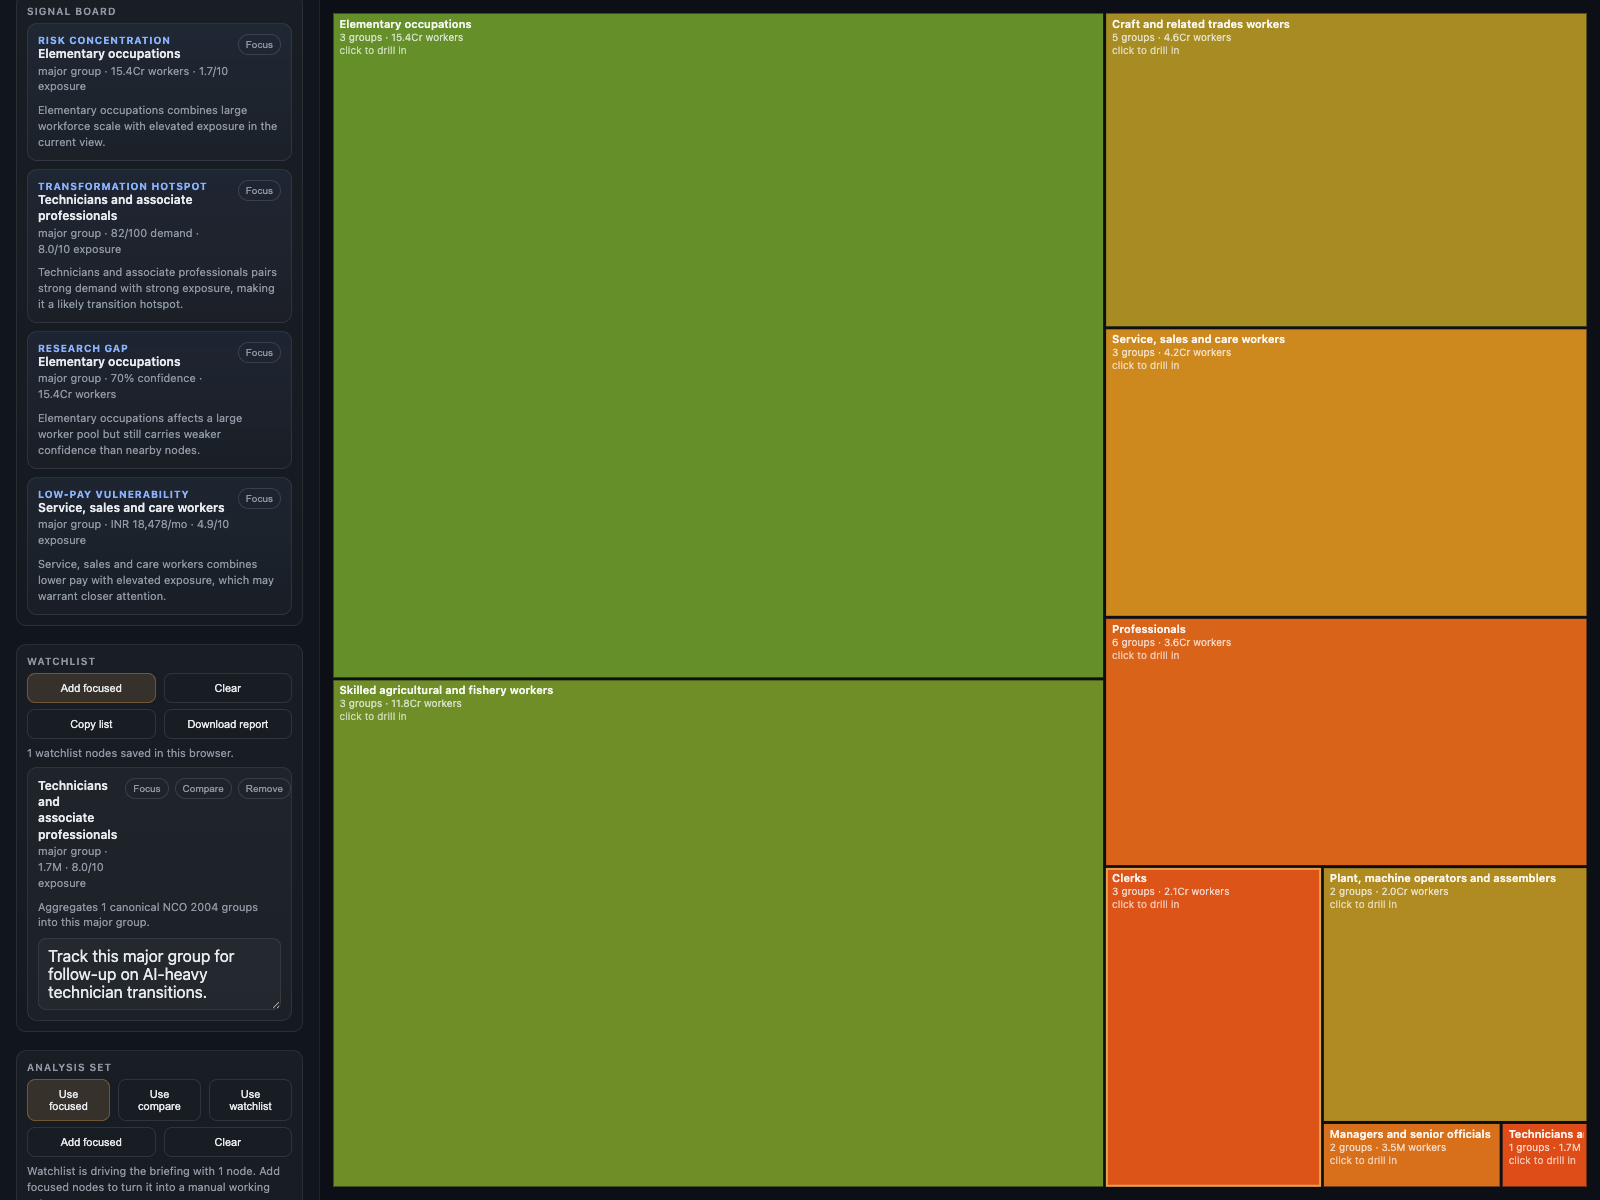
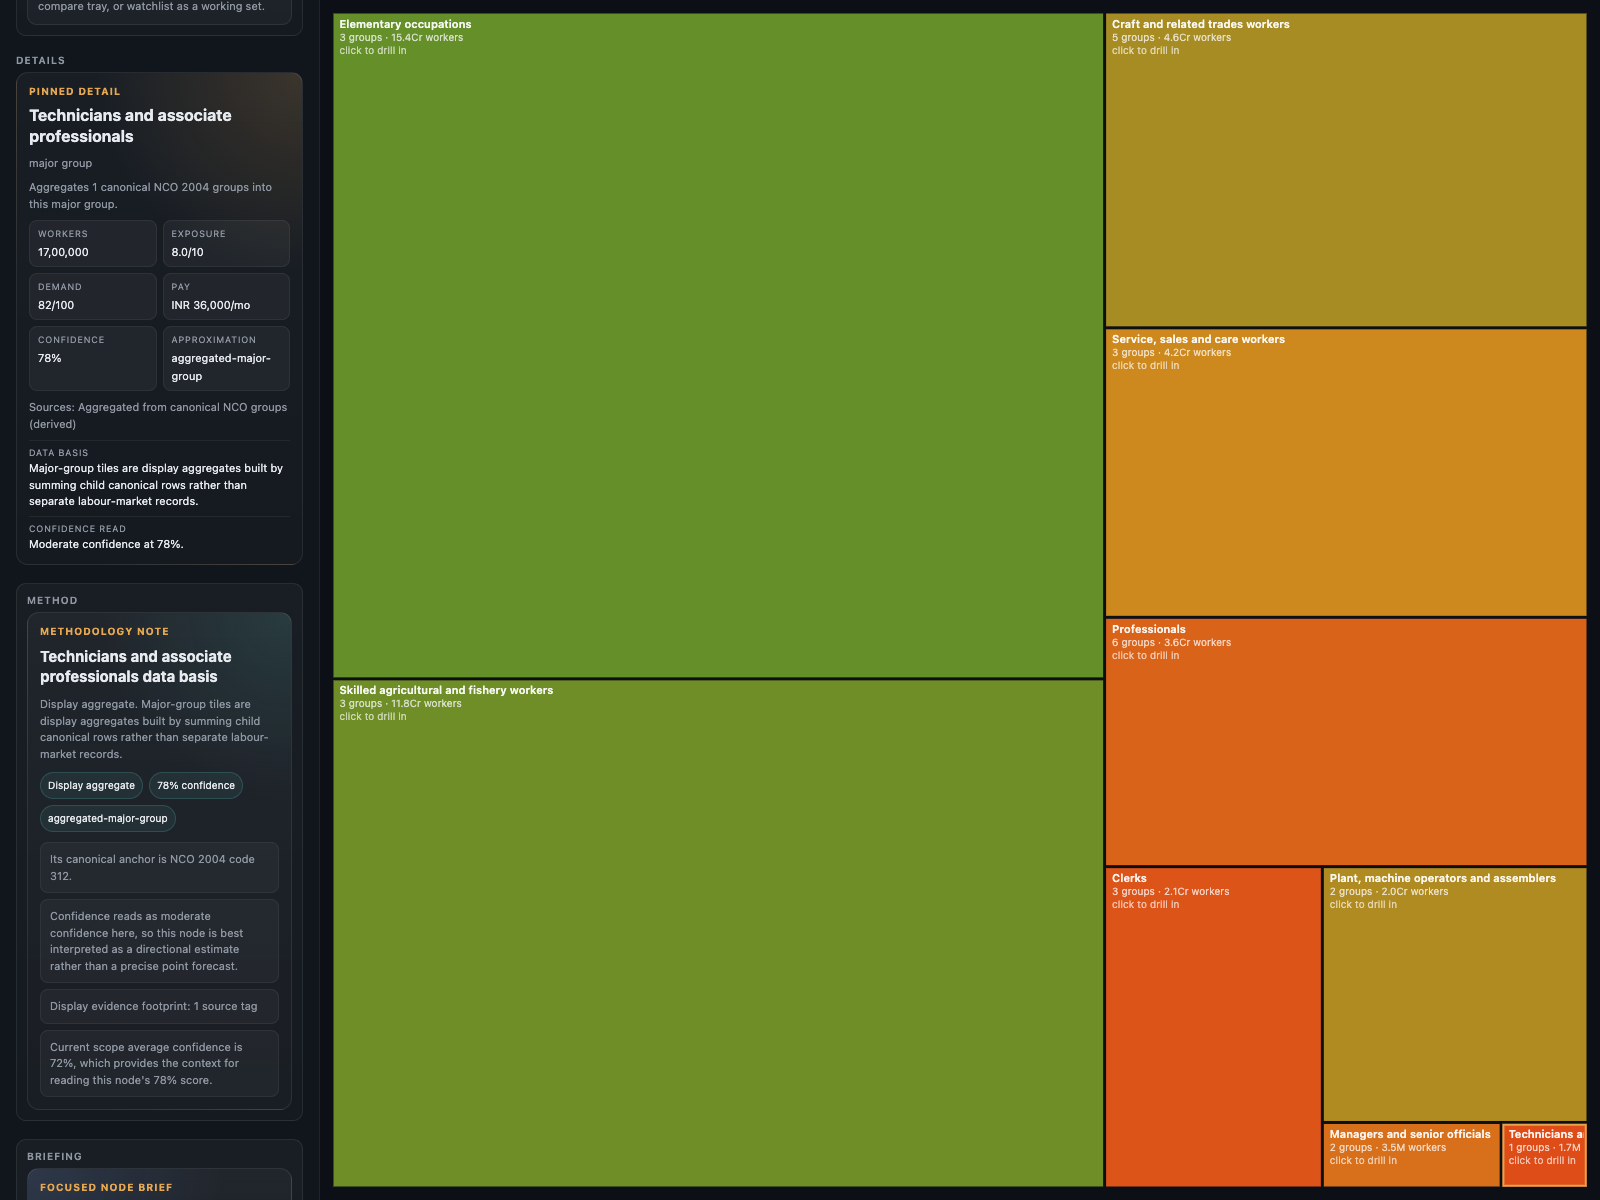
Add methodology guidance to the site

diff --git a/site/index.html b/site/index.html
@@ -471,6 +471,17 @@ a { color: #79a7ff; }
   font-size: 10px;
 }
 
+.methodology-card {
+  background:
+    radial-gradient(circle at top right, rgba(95,217,198,0.12), transparent 34%),
+    linear-gradient(180deg, rgba(255,255,255,0.035), rgba(255,255,255,0.015));
+}
+
+.methodology-chip {
+  background: rgba(95,217,198,0.08);
+  border-color: rgba(95,217,198,0.18);
+}
+
 .stat-big {
   font-size: 34px;
   line-height: 1;
@@ -1340,6 +1351,17 @@ canvas#canvas {
       <div class="detail-stats" id="detailStats"></div>
       <div class="detail-list" id="detailList"></div>
       <div class="detail-provenance" id="detailProvenance"></div>
+    </div>
+  </div>
+
+  <div class="section section-card">
+    <h3>Method</h3>
+    <div class="briefing-card methodology-card" id="methodologyCard">
+      <div class="detail-kicker" id="methodologyKicker">Reading guide</div>
+      <div class="briefing-title" id="methodologyTitle">Preparing methodology…</div>
+      <div class="briefing-copy" id="methodologySummary">Waiting for the site payload.</div>
+      <div class="briefing-meta" id="methodologyMeta"></div>
+      <div class="briefing-points" id="methodologyPoints"></div>
     </div>
   </div>
 
@@ -2270,6 +2292,83 @@ function confidencePct(node) {
   return `${Math.round((node.exposure_confidence || 0) * 100)}%`;
 }
 
+function confidenceBand(score) {
+  const value = score || 0;
+  if (value >= 0.8) return "Stronger confidence";
+  if (value >= 0.7) return "Moderate confidence";
+  return "Lower confidence";
+}
+
+function nodeBasisLabel(node) {
+  if (!node) return "Scope aggregate";
+  if (node.node_kind === "role") return "Display-derived role estimate";
+  if (node.node_kind === "major_group") return "Display aggregate";
+  if (node.node_kind === "nco_group" || node.nco2004_3d) return "Canonical labour-market row";
+  return "Display node";
+}
+
+function nodeBasisCopy(node) {
+  if (!node) return "This view is a scoped aggregate over canonical NCO 2004 rows.";
+  if (node.node_kind === "role") {
+    return "Role nodes are interpretive display estimates anchored to a parent canonical NCO group, not direct PLFS-counted occupations.";
+  }
+  if (node.node_kind === "major_group") {
+    return "Major-group tiles are display aggregates built by summing child canonical rows rather than separate labour-market records.";
+  }
+  if (node.node_kind === "nco_group" || node.nco2004_3d) {
+    return "This node maps directly to a canonical NCO 2004 labour-market row in the site payload.";
+  }
+  return "This node is part of the display layer rather than a standalone canonical row.";
+}
+
+function canonicalCodesForNode(node) {
+  if (!node) return [];
+  if (node.node_kind === "major_group") {
+    const prefix = node.node_id.replace("major-", "");
+    return canonicalRows
+      .filter(row => row.nco2004_3d.startsWith(prefix))
+      .map(row => row.nco2004_3d);
+  }
+  if (node.canonical_nco2004_3d) return [node.canonical_nco2004_3d];
+  if (node.nco2004_3d) return [node.nco2004_3d];
+  return [];
+}
+
+function scopeEvidenceSummary(rows) {
+  const codes = Array.from(new Set(rows.map(row => row.canonical_nco2004_3d || row.nco2004_3d).filter(Boolean)));
+  const canonical = codes
+    .map(code => canonicalRows.find(row => row.nco2004_3d === code))
+    .filter(Boolean);
+  const sourced = canonical.filter(row =>
+    (row.sources || []).length ||
+    (row.evidence_sources || []).length ||
+    row.description_source ||
+    row.postings_source
+  );
+  const postings = canonical.filter(row => (row.sample_postings || []).length).length;
+  return {
+    canonicalCount: canonical.length,
+    sourcedCount: sourced.length,
+    postingsCount: postings,
+  };
+}
+
+function nodeEvidenceSummary(node) {
+  const canonical = canonicalRowForNode(node);
+  const sourceCount = (canonical?.sources || node?.sources || []).length;
+  const evidenceCount = (canonical?.evidence_sources || []).length;
+  const postingsCount = (canonical?.sample_postings || []).length;
+  const bits = [];
+  if (sourceCount) bits.push(`${sourceCount} source tag${sourceCount === 1 ? "" : "s"}`);
+  if (evidenceCount) bits.push(`${evidenceCount} evidence note${evidenceCount === 1 ? "" : "s"}`);
+  if (postingsCount) bits.push(`${postingsCount} sample posting${postingsCount === 1 ? "" : "s"}`);
+  if (canonical?.description_source) bits.push(`description from ${canonical.description_source}`);
+  if (canonical?.postings_source) bits.push(`postings from ${canonical.postings_source}`);
+  return bits.length
+    ? bits.join("; ")
+    : "No extra source detail is attached beyond the display payload for this node.";
+}
+
 function pct(numerator, denominator) {
   if (!denominator) return "0%";
   return `${Math.round((numerator / denominator) * 100)}%`;
@@ -2292,6 +2391,7 @@ function renderOverviewDetails() {
   const rows = statsRows();
   const topRow = rows.slice().sort((a, b) => b.exposure - a.exposure)[0] || null;
   const highestConfidence = rows.slice().sort((a, b) => (b.exposure_confidence || 0) - (a.exposure_confidence || 0))[0] || null;
+  const evidence = scopeEvidenceSummary(rows);
 
   detailKicker.textContent = activeFilterCount() ? "Filtered overview" : "Overview";
   detailTitle.textContent = currentScopeNode() ? currentScopeNode().title : "All India";
@@ -2317,8 +2417,20 @@ function renderOverviewDetails() {
     : payload.meta.approximation_note || "";
   detailProvenance.innerHTML = `
     <div class="detail-row">
+      <span class="label">Data basis</span>
+      <span class="value">Root treemap tiles are a display layer; canonical NCO 2004 rows remain the labour-market unit underneath.</span>
+    </div>
+    <div class="detail-row">
       <span class="label">Scope note</span>
       <span class="value">${currentScopeNode() ? "Rankings and charts below are scoped to the currently visible nodes." : "Root view shows major groups while the sidebar stats aggregate canonical rows."}</span>
+    </div>
+    <div class="detail-row">
+      <span class="label">Evidence footprint</span>
+      <span class="value">${evidence.canonicalCount} canonical rows in scope; ${evidence.sourcedCount} with source metadata; ${evidence.postingsCount} with sample postings.</span>
+    </div>
+    <div class="detail-row">
+      <span class="label">Confidence read</span>
+      <span class="value">${confidenceBand(weightedAverage(rows, "exposure_confidence"))} at ${Math.round(weightedAverage(rows, "exposure_confidence") * 100)}% weighted average.</span>
     </div>
   `;
 }
@@ -2371,6 +2483,8 @@ function renderNodeDetails(node) {
   if (canonical?.postings_source) provenanceBits.push(["Postings source", canonical.postings_source]);
   if (evidenceSources.length) provenanceBits.push(["Evidence", evidenceSources.join("; ")]);
   if (canonical?.sources?.length) provenanceBits.push(["Canonical sources", canonical.sources.map(source => `${source.name} (${source.status})`).join("; ")]);
+  provenanceBits.unshift(["Data basis", nodeBasisCopy(node)]);
+  provenanceBits.push(["Confidence read", `${confidenceBand(node.exposure_confidence || 0)} at ${confidencePct(node)}.`]);
 
   detailProvenance.innerHTML = provenanceBits.map(([label, value]) => `
     <div class="detail-row">
@@ -2533,9 +2647,80 @@ function briefingData() {
   };
 }
 
+function methodologyData() {
+  const focus = selectedNode() || currentScopeNode() || null;
+  const rows = statsRows();
+  const weightedConfidence = weightedAverage(rows, "exposure_confidence");
+  const evidence = scopeEvidenceSummary(rows);
+  const viewLabel = currentView === "scatter" ? "scatter comparison" : "treemap";
+
+  if (!focus) {
+    return {
+      kicker: "Reading guide",
+      title: "How to interpret this view",
+      summary: `The root ${viewLabel} is a display map over ${payload.meta.canonical_row_count || canonicalRows.length} canonical NCO 2004 rows. Major-group and role nodes help navigation, but the canonical row remains the labour-market anchor underneath.`,
+      chips: [
+        `${payload.meta.canonical_row_count || canonicalRows.length} canonical rows`,
+        `${payload.meta.display_leaf_count || 0} representative roles`,
+        `${Math.round(weightedConfidence * 100)}% weighted confidence`,
+      ],
+      points: [
+        "Canonical NCO 2004 rows are the stable join layer for employment, pay, demand, exposure, and source reconciliation.",
+        "Major-group tiles aggregate child canonical rows, while role nodes are display-derived estimates intended to make the treemap more legible, not to represent official PLFS microdata counts.",
+        `The current visible scope resolves back to ${evidence.canonicalCount} canonical rows; ${evidence.sourcedCount} of them carry explicit source or evidence metadata and ${evidence.postingsCount} include sample postings.`,
+        `Confidence should be read as ${confidenceBand(weightedConfidence).toLowerCase()} in aggregate, not as a guarantee that every displayed field is equally precise.`,
+      ],
+    };
+  }
+
+  const canonical = canonicalRowForNode(focus);
+  const canonicalCodes = canonicalCodesForNode(focus);
+  const shareLine = focus.node_kind === "role" && focus.role_share != null
+    ? `This role is displayed as an estimated ${Math.round(focus.role_share * 100)}% share of its parent canonical group.`
+    : null;
+  const anchorLine = canonicalCodes.length > 1
+    ? `This node rolls up ${canonicalCodes.length} canonical NCO 2004 rows into a display-level summary.`
+    : canonicalCodes.length === 1
+      ? `Its canonical anchor is NCO 2004 code ${canonicalCodes[0]}.`
+      : "This node is interpreted through the display layer rather than a standalone canonical code.";
+
+  return {
+    kicker: "Methodology note",
+    title: `${focus.title} data basis`,
+    summary: `${nodeBasisLabel(focus)}. ${nodeBasisCopy(focus)}`,
+    chips: [
+      nodeBasisLabel(focus),
+      `${confidencePct(focus)} confidence`,
+      focus.approximation_level || "approximation",
+    ],
+    points: [
+      anchorLine,
+      `Confidence reads as ${confidenceBand(focus.exposure_confidence || 0).toLowerCase()} here, so this node is best interpreted as a directional estimate rather than a precise point forecast.`,
+      canonical
+        ? `Canonical evidence footprint: ${nodeEvidenceSummary(focus)}`
+        : `Display evidence footprint: ${nodeEvidenceSummary(focus)}`,
+      shareLine || `Current scope average confidence is ${Math.round(weightedConfidence * 100)}%, which provides the context for reading this node's ${confidencePct(focus)} score.`,
+    ],
+  };
+}
+
+function renderMethodology() {
+  const data = methodologyData();
+  document.getElementById("methodologyKicker").textContent = data.kicker;
+  document.getElementById("methodologyTitle").textContent = data.title;
+  document.getElementById("methodologySummary").textContent = data.summary;
+  document.getElementById("methodologyMeta").innerHTML = data.chips
+    .map(chip => `<span class="briefing-chip methodology-chip">${chip}</span>`)
+    .join("");
+  document.getElementById("methodologyPoints").innerHTML = data.points
+    .map(point => `<div class="briefing-point">${point}</div>`)
+    .join("");
+}
+
 function briefingMarkdown() {
   writeUrlState();
   const data = briefingData();
+  const method = methodologyData();
   return [
     "# AI Exposure Briefing",
     "",
@@ -2548,6 +2733,11 @@ function briefingMarkdown() {
     "",
     "### Context",
     ...data.chips.map(chip => `- ${chip}`),
+    "",
+    "### Methodology",
+    `- ${method.title}`,
+    `- ${method.summary}`,
+    ...method.points.map(point => `- ${point}`),
     `- Link: ${window.location.href}`,
     ""
   ].join("\n");
@@ -2619,6 +2809,7 @@ function reportPackMarkdown() {
   writeUrlState();
   const report = reportPackData();
   const briefing = briefingData();
+  const method = methodologyData();
   const compareRows = compareIds.map(id => nodesById.get(id)).filter(Boolean);
   const analysis = analysisRows();
   const watchlistRows = watchlistIds.map(id => nodesById.get(id)).filter(Boolean);
@@ -2638,6 +2829,11 @@ function reportPackMarkdown() {
     `- ${briefing.title}`,
     `- ${briefing.summary}`,
     ...briefing.bullets.map(point => `- ${point}`),
+    "",
+    "### Methodology",
+    `- ${method.title}`,
+    `- ${method.summary}`,
+    ...method.points.map(point => `- ${point}`),
   ];
 
   if (analysisMode && analysis.length) {
@@ -3492,7 +3688,9 @@ function showTooltip(node, x, y) {
 
   const rows = [
     ["Level", node.node_kind.replace("_", " ")],
+    ["Basis", nodeBasisLabel(node)],
     ["Approximation", node.approximation_level],
+    ["Confidence band", confidenceBand(node.exposure_confidence || 0)],
     ["Workers", fmtWorkersLong(node.employment_workers)],
     ["Worker share", `${node.worker_share.toFixed(2)}%`],
     ["Pay", `${fmtInr(node.median_monthly_earnings_inr)}/mo`],
@@ -3507,7 +3705,7 @@ function showTooltip(node, x, y) {
     .map(([label, value]) => `<div class="label">${label}</div><div class="value">${value}</div>`)
     .join("");
   tooltip.querySelector(".tt-body").textContent = node.summary || "";
-  tooltip.querySelector(".tt-sources").textContent = sourceText(node.sources);
+  tooltip.querySelector(".tt-sources").textContent = sourceText(node.sources) || nodeEvidenceSummary(node);
   tooltip.classList.add("visible");
   tooltip.style.left = `${Math.min(window.innerWidth - tooltip.offsetWidth - 16, x + 16)}px`;
   tooltip.style.top = `${Math.min(window.innerHeight - tooltip.offsetHeight - 16, y + 16)}px`;
@@ -3580,6 +3778,7 @@ function refresh() {
   updateResultsUI();
   computeStats();
   renderDetails();
+  renderMethodology();
   renderSignals();
   renderWatchlist();
   renderAnalysisSet();

diff --git a/README.md b/README.md
@@ -10,7 +10,7 @@ This repository is an adaptation, not a forked continuation of the upstream proj
 
 The repo now ships with a transparent **seed dataset** so the site is runnable without PLFS microdata or live NCS scraping. The production path is still the same 5-stage idea: build taxonomy, ingest labour stats, ingest demand, generate packets, score AI exposure, and ship a static treemap. The public UI now adds a denser display hierarchy of representative role nodes while keeping `nco2004_3d` as the canonical labour-market unit underneath.
 
-The current site build also includes scope-aware search, exposure/category filters, visual lenses for exposure vs confidence, browser-local saved views, a local watchlist for tracked nodes with per-node notes and markdown report export, clickable insight cards, a signal board for cross-cutting risk and opportunity patterns, an `Analysis Set` workflow for multi-node briefs, a persistent details panel, auto-generated briefing notes for the current scope, focused node, or active analysis set, pinned comparison slots with directional metric deltas, a `Report Pack` export surface that combines the active brief, compare state, and watchlist context, scoped ranking tables, sortable visible-node tables, one-click CSV/JSON export for the current scope, shareable deep links that restore the active view state, responsive mobile-friendly layouts, and clearer confidence/provenance readouts so the static payload is easier to inspect without leaving the treemap view.
+The current site build also includes scope-aware search, exposure/category filters, visual lenses for exposure vs confidence, browser-local saved views, a local watchlist for tracked nodes with per-node notes and markdown report export, clickable insight cards, a signal board for cross-cutting risk and opportunity patterns, an `Analysis Set` workflow for multi-node briefs, a persistent details panel, an explicit methodology layer that explains canonical rows versus display-derived nodes, auto-generated briefing notes for the current scope, focused node, or active analysis set, pinned comparison slots with directional metric deltas, a `Report Pack` export surface that combines the active brief, compare state, and watchlist context, scoped ranking tables, sortable visible-node tables, one-click CSV/JSON export for the current scope, shareable deep links that restore the active view state, responsive mobile-friendly layouts, and clearer confidence/provenance readouts so the static payload is easier to inspect without leaving the treemap view.
 
 ![India treemap](jobs.png)
 
